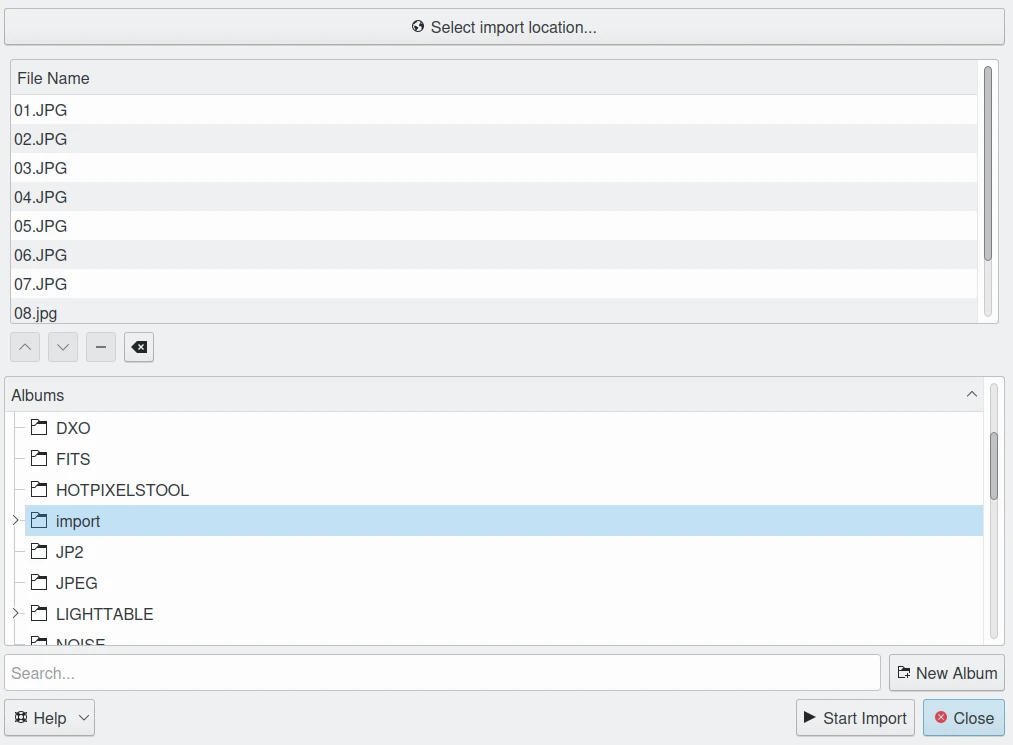
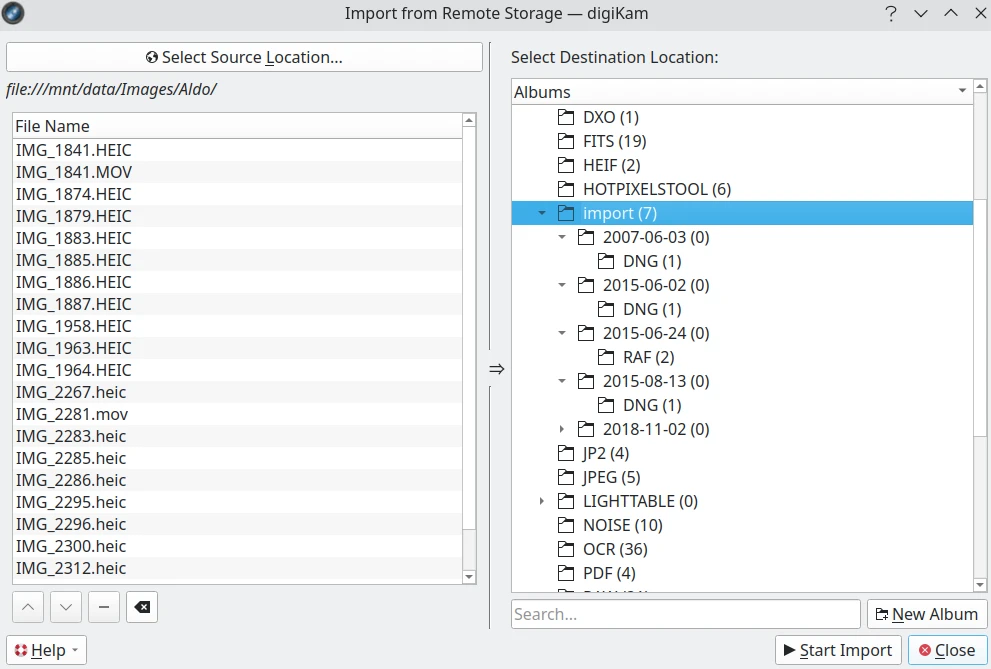
update to new dialog layout

diff --git a/import_tools/remote_import.rst b/import_tools/remote_import.rst
@@ -21,7 +21,7 @@ This tool downloads files into your collections from a remote networked computer
 
     The Import from Remote Computer Dialog
 
-To choose files to import, press **Select Import Location**. A native desktop URLs selector will appear allowing you to see remotely connected devices listed in the network section:
+To choose files to import, press **Select Source Location** on the left side of the dialog. A native desktop URLs selector will appear allowing you to see remotely connected devices listed in the network section:
 
 .. figure:: images/import_remote_selection.webp
     :alt:
@@ -38,8 +38,8 @@ In this dialog, you can use protocols such as **fish** (ssh), **ftp**, **smb**, 
 
     The native URLs selector dialog is only available if you turn on the right option from the `Settings --> Configure digiKam... --> Miscellaneous page --> Appearance tab`. See  :ref:`this section <appearance_settings>` of the manual for more details.
 
-After selecting the files to import and closing the native desktop URLs selector, the selected files will appear in the list below the **Select import location** button.
+After selecting the files to import and closing the native desktop URLs selector, the selected files will appear in the list below the **Select Source Location** button.
 
-Below this list of files, the main dialog displays the hierarchy of **Albums** in your collection. Specify the target Album where the files should be imported, or press the **New Album** button to create a new album for the downloaded files.
+On the right, the main dialog displays the hierarchy of **Albums** in your collection. Specify the destination location where the files should be imported, or press the **New Album** button to create a new album for the downloaded files.
 
 After selecting the target album to download the files, press the **Start Import** button to process files. You can abort the operation by pressing the **Close** button.
